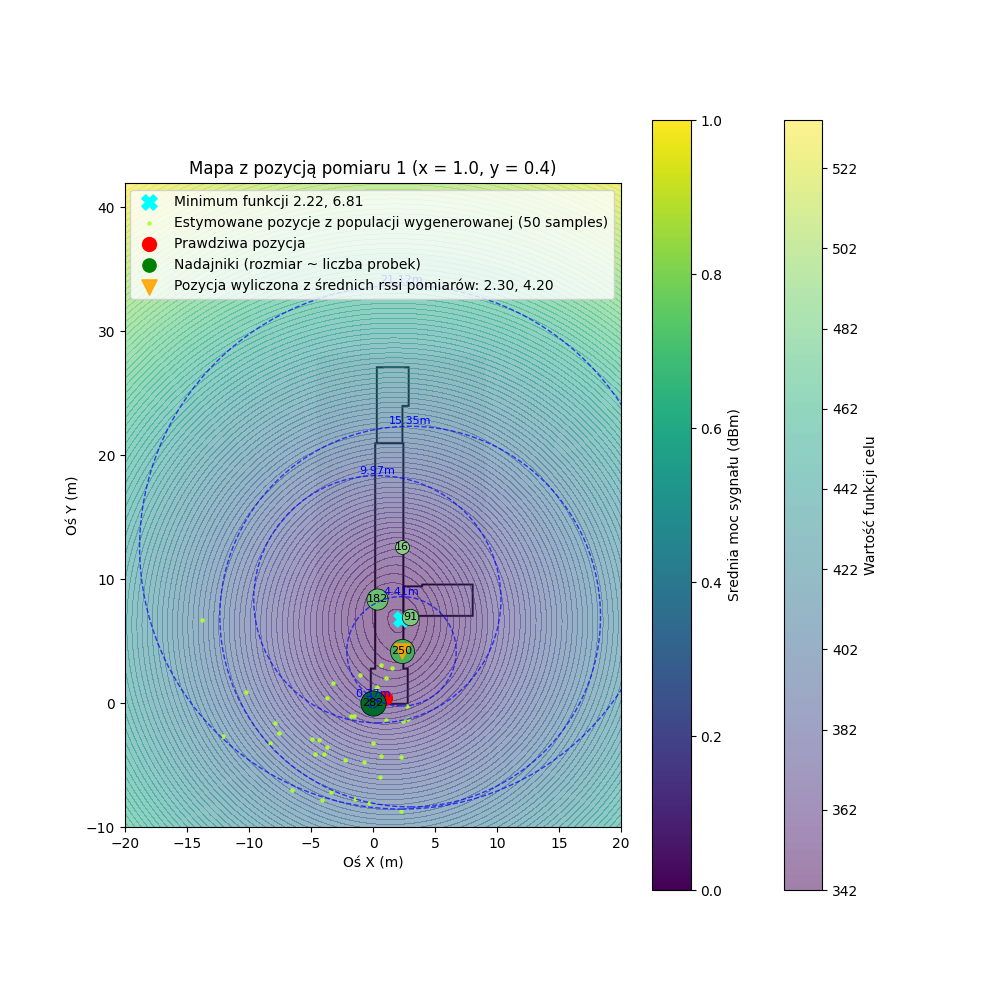
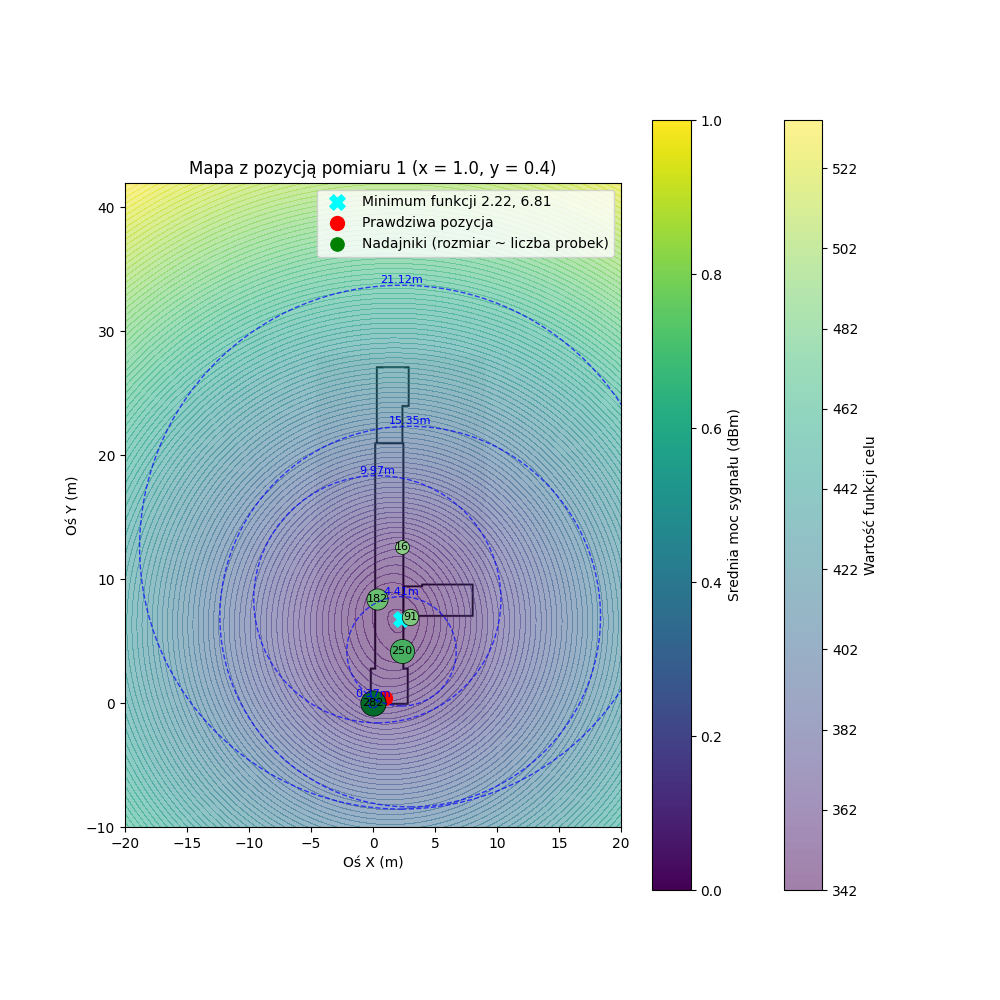
change1

Changed region(s): [[0.124, 0.186, 0.62, 0.31]]

diff --git a/src/ble_indoor_localization/estymatory/extended_kalman_filter.py b/src/ble_indoor_localization/estymatory/extended_kalman_filter.py
@@ -378,46 +378,46 @@ class EKFLocalizer:
         # Zwróć tylko (x, y) — kompatybilnie z Twoim obecnym kodem
         return float(self.state[0]), float(self.state[1])
 
-    
-
-    def ekf_estimation(self, df,  
-                        state_obj: EKFLocalizer, 
-                        window_step, 
-                    per_beacon_scale=None,
-                    distance_for_R='pred'
-                    ):
-
-        beacons_coords = []
-        distances = []
-
-        for _, row in df.iterrows():
-            beacon_id = int(row["id"])
-            rssi = float(row["value"])
-
-            # Szukamy beacona w df_transmitters
-            match = self.df_transmitters.loc[self.df_transmitters["Id"] == beacon_id]
-            if match.empty:
-                # brak tego beacona w słowniku – pomijamy
-                continue
 
 
-            bx = self.df_transmitters.loc[self.df_transmitters["Id"] == beacon_id, "x"].values[0]
-            by = self.df_transmitters.loc[self.df_transmitters["Id"] == beacon_id, "y"].values[0]
+def ekf_estimation(self, df,  
+                    state_obj: EKFLocalizer, 
+                    window_step, 
+                per_beacon_scale=None,
+                distance_for_R='pred'
+                ):
 
-            beacons_coords.append((bx, by))
-            distances.append(calculate_distance_from_rssi(rssi))
+    beacons_coords = []
+    distances = []
 
-        beacons_coords = np.array(beacons_coords, dtype=float)
-        distances = np.array(distances, dtype=float)
+    for _, row in df.iterrows():
+        beacon_id = int(row["id"])
+        rssi = float(row["value"])
 
-        dt = window_step.total_seconds()
-        state_obj.predict(dt)
+        # Szukamy beacona w df_transmitters
+        match = self.df_transmitters.loc[self.df_transmitters["Id"] == beacon_id]
+        if match.empty:
+            # brak tego beacona w słowniku – pomijamy
+            continue
 
-        # Update (z debugiem opcjonalnie)
-        x, y = state_obj.update(
-            beacons_coords,
-            distances,
-            per_beacon_scale=per_beacon_scale,
-            distance_for_R=distance_for_R
-        )
-        return x,y
+
+        bx = self.df_transmitters.loc[self.df_transmitters["Id"] == beacon_id, "x"].values[0]
+        by = self.df_transmitters.loc[self.df_transmitters["Id"] == beacon_id, "y"].values[0]
+
+        beacons_coords.append((bx, by))
+        distances.append(calculate_distance_from_rssi(rssi))
+
+    beacons_coords = np.array(beacons_coords, dtype=float)
+    distances = np.array(distances, dtype=float)
+
+    dt = window_step.total_seconds()
+    state_obj.predict(dt)
+
+    # Update (z debugiem opcjonalnie)
+    x, y = state_obj.update(
+        beacons_coords,
+        distances,
+        per_beacon_scale=per_beacon_scale,
+        distance_for_R=distance_for_R
+    )
+    return x,y

diff --git a/src/pomiar2/pozycja_w_czasie.py b/src/pomiar2/pozycja_w_czasie.py
@@ -349,6 +349,7 @@ if __name__ == "__main__":
     
     window_width = timedelta(seconds=3)
     # plot_interactive_precomputed(frames, slider_values)
+    
     # func = lambda df: least_square_estimation(df, df_transmitters, bounds=None, distance_factor=3)
     # save_trajectory_plot(df, window_width, folder_path="diagrams/wykresy2_LS/", filename=f"LS_distance_factor_3.png", func=func)
 
@@ -356,14 +357,14 @@ if __name__ == "__main__":
     # save_trajectory_plot(df, window_width, folder_path="diagrams/wykresy2_DLS/", filename=f"DLS.png",
     #                     func = dls.estimation
     #                     )
-    d2ls = D2LSEstimator(*START_POS, window_step=WINDOW_STEP,df_transmitters=df_transmitters,bounds=bounds,distance_factor=2.4, speed=0.9, acceleration=1.05)
-    save_trajectory_plot(df, window_width, folder_path="diagrams/wykresy2_D2LS/", filename=f"D2LS_sz.png",
-                    func = d2ls.estimation
-                        )
-    # d2lsd = D2LSDEstimator(*START_POS, window_step=WINDOW_STEP,df_transmitters=df_transmitters,bounds=bounds,distance_factor=0.71, speed=0.9, acceleration=1.31, damping_factor=-0.1)
-    # save_trajectory_plot(df, window_width, folder_path="diagrams/wykresy2_D2LSD/", filename=f"D2LSD.png",
-    #                 func = d2lsd.estimation
+    # d2ls = D2LSEstimator(*START_POS, window_step=WINDOW_STEP,df_transmitters=df_transmitters,bounds=bounds,distance_factor=2.4, speed=0.9, acceleration=1.05)
+    # save_trajectory_plot(df, window_width, folder_path="diagrams/wykresy2_D2LS/", filename=f"D2LS_sz.png",
+    #                 func = d2ls.estimation
     #                     )
+    d2lsd = D2LSDEstimator(*START_POS, window_step=WINDOW_STEP,df_transmitters=df_transmitters,bounds=bounds,distance_factor=1.41, speed=0.9, acceleration=2.8, damping_factor=-0.5)
+    save_trajectory_plot(df, window_width, folder_path="diagrams/wykresy2_D2LSD/", filename=f"D2LSD_sz.png",
+                    func = d2lsd.estimation
+                        )
     
     
     # distance_factors = [0.45,0.48,0.5,0.54,0.58]

diff --git a/src/pomiar1/least_square.py b/src/pomiar1/least_square.py
@@ -165,15 +165,15 @@ if __name__ == "__main__":
         fig, ax = plt.subplots(figsize=(10, 10))
         ax = plot_map(ax)
         ax= plot_area_of_function(X,Y,calc_data=calc_data[measurement_num],ax=ax)
-        ax = plot_estimated_positions(
-            measurement_num,
-            estimated_positions,
-            ax=ax            
-        )
+        # ax = plot_estimated_positions(
+        #     measurement_num,
+        #     estimated_positions,
+        #     ax=ax            
+        # )
         func = lambda rssi: calculate_distance_from_rssi(rssi,model)
         ax = plot_distance_from_signal(measurement_num, dfs[measurement_num],df_transmitters,func,  ax)
-        avg_x, avg_y = calculate_average_positions(calc_data=calc_data[measurement_num])
-        ax = plot_average_positions(avg_x,avg_y, ax=ax)
+        # avg_x, avg_y = calculate_average_positions(calc_data=calc_data[measurement_num])
+        # ax = plot_average_positions(avg_x,avg_y, ax=ax)
        
         ax.set_xlabel('Oś X (m)')
         ax.set_ylabel('Oś Y (m)')

diff --git a/src/ble_indoor_localization/plotting.py b/src/ble_indoor_localization/plotting.py
@@ -319,7 +319,7 @@ def plot_distance_from_signal(measurement_name, df_measurement, df_transmitters,
             if c_flag:
                 circle = plt.Circle((tx_x, tx_y), estimated_distance, color='blue', 
                                    fill=False, linestyle='--', alpha=0.7, label=None)
-                # ax.add_patch(circle)
+                ax.add_patch(circle)
                 ax.text(tx_x, tx_y + estimated_distance, f'{estimated_distance:.2f}m', 
                        color='blue', fontsize=8, ha='center', va='bottom')
         else:

diff --git a/src/pomiar1/dystans.py b/src/pomiar1/dystans.py
@@ -17,7 +17,7 @@ if __name__ == "__main__":
     for measurement_name, df_measurement in dfs.items():
         fig, ax = plt.subplots(figsize=(8, 8))
         ax= plot_map()
-        func: Callable[..., Any] = lambda rssi: calculate_distance_from_rssi(rssi, model)
+        func = lambda rssi: calculate_distance_from_rssi(rssi, model)
         plot_distance_from_signal(measurement_name, df_measurement, df_transmitters, calculate_distance_func=func,  ax=ax)
         ax.set_ylim(-10, 42)
         ax.set_xlim(-20, 20)

diff --git a/src/ble_indoor_localization/__init__.py b/src/ble_indoor_localization/__init__.py
@@ -57,5 +57,13 @@ __all__ = [
     'plot_boxplots',
     "save_probki_w_czasie_plot",
     "plot_active_measurement_position",
+
+    # Estimators
+    "D2LSEstimator", 
+    "DLSEstimator", 
+    "EKFLocalizer", 
+    "Estimator", 
+    "MLEstimator", 
+    "D2LSDEstimator"
 ]
 
